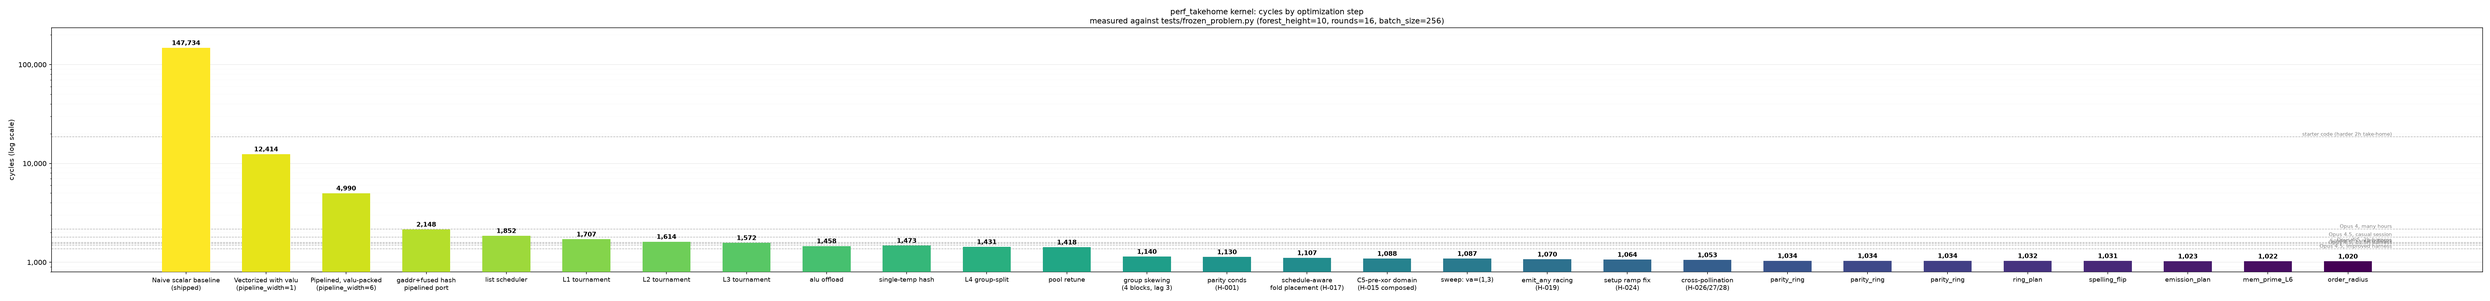
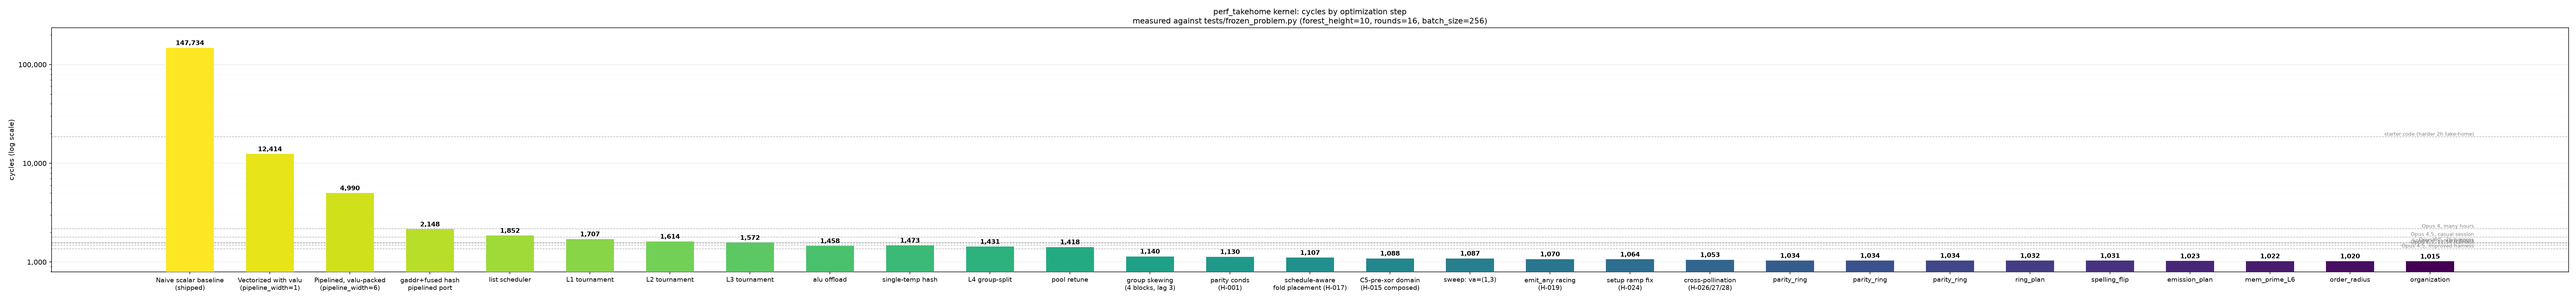
H-056 accepted: mainline 1020 -> 1015 via organization change (even8/stagger2/zip, LB 1013 -> 1001). Convergence call superseded: the organization axis moves the floor
Claude-Session: 5cfbd141-00dc-4755-aaa3-3deea70ab9f0

diff --git a/perf_takehome.py b/perf_takehome.py
@@ -63,70 +63,70 @@ _SCALARIZABLE = {"+", "-", "*", "^", "&", "|", "<<", ">>", "<", "=="}
 # any kernel change. Covers every (round, group) exactly once with
 # per-group rounds ascending (asserted at use).
 _EMISSION_ORDER: tuple[tuple[int, int], ...] = (
-    (0, 2), (0, 1), (0, 0), (0, 5), (0, 4), (1, 1), (0, 7), (1, 2),
-    (0, 6), (1, 4), (0, 3), (1, 0), (1, 6), (1, 5), (1, 3), (1, 7),
-    (2, 1), (2, 2), (2, 0), (3, 0), (2, 5), (2, 6), (3, 2), (2, 7),
-    (3, 1), (3, 6), (2, 4), (4, 0), (2, 3), (3, 5), (3, 4), (0, 8),
-    (3, 7), (0, 12), (3, 3), (0, 14), (4, 6), (4, 2), (0, 11), (4, 5),
-    (0, 9), (0, 15), (4, 3), (4, 1), (0, 13), (5, 0), (4, 4), (4, 7),
-    (1, 8), (1, 13), (5, 4), (5, 2), (1, 12), (1, 15), (0, 10), (1, 9),
-    (5, 5), (1, 10), (5, 6), (1, 11), (2, 8), (2, 12), (6, 4), (5, 3),
-    (6, 5), (5, 7), (0, 22), (5, 1), (6, 2), (2, 10), (6, 0), (1, 14),
-    (2, 9), (3, 9), (6, 1), (0, 23), (2, 14), (3, 10), (2, 13), (2, 15),
-    (0, 20), (6, 6), (3, 8), (6, 7), (3, 12), (3, 14), (0, 18), (0, 19),
-    (7, 4), (2, 11), (3, 15), (7, 0), (7, 2), (7, 1), (6, 3), (0, 16),
-    (7, 3), (7, 6), (3, 11), (4, 9), (7, 7), (4, 10), (4, 12), (4, 11),
-    (7, 5), (1, 20), (0, 21), (8, 0), (4, 15), (8, 4), (1, 23), (1, 16),
-    (4, 14), (1, 21), (5, 12), (8, 2), (4, 8), (3, 13), (8, 5), (1, 22),
-    (0, 17), (1, 19), (8, 3), (1, 18), (4, 13), (8, 1), (5, 10), (1, 17),
-    (8, 6), (9, 0), (5, 9), (8, 7), (5, 15), (5, 14), (5, 13), (5, 8),
-    (9, 5), (2, 23), (0, 25), (0, 24), (2, 22), (9, 6), (2, 20), (2, 16),
-    (2, 18), (9, 1), (9, 2), (5, 11), (2, 19), (6, 14), (6, 9), (6, 10),
-    (6, 15), (9, 7), (9, 4), (3, 20), (6, 13), (9, 3), (6, 11), (2, 21),
-    (3, 18), (3, 16), (6, 12), (6, 8), (3, 19), (3, 22), (1, 25), (0, 27),
-    (3, 21), (2, 17), (3, 23), (10, 6), (0, 26), (3, 17), (7, 9), (7, 12),
-    (0, 28), (10, 5), (0, 29), (4, 17), (7, 8), (10, 1), (0, 31), (10, 3),
-    (10, 2), (10, 0), (4, 18), (10, 4), (4, 16), (0, 30), (7, 15), (7, 14),
-    (4, 22), (11, 2), (7, 10), (4, 19), (7, 11), (4, 20), (1, 26), (11, 3),
-    (1, 30), (10, 7), (8, 10), (4, 21), (1, 24), (1, 27), (8, 8), (7, 13),
-    (1, 28), (1, 29), (8, 12), (8, 14), (8, 9), (11, 6), (2, 27), (5, 18),
-    (1, 31), (5, 16), (4, 23), (2, 26), (11, 4), (5, 21), (11, 1), (8, 15),
-    (11, 0), (2, 31), (8, 13), (5, 19), (11, 7), (5, 20), (2, 24), (9, 10),
-    (5, 17), (2, 25), (11, 5), (12, 0), (2, 30), (2, 29), (6, 17), (5, 22),
-    (12, 5), (12, 4), (9, 9), (5, 23), (9, 8), (3, 25), (8, 11), (10, 10),
-    (12, 1), (9, 13), (3, 27), (6, 20), (2, 28), (9, 14), (9, 11), (6, 16),
-    (12, 6), (12, 3), (9, 15), (12, 7), (3, 24), (3, 26), (6, 21), (6, 18),
-    (3, 28), (6, 19), (6, 23), (7, 21), (6, 22), (7, 18), (13, 3), (13, 0),
-    (10, 15), (3, 29), (12, 2), (13, 1), (13, 2), (13, 7), (10, 9), (13, 4),
-    (9, 12), (10, 12), (3, 30), (10, 11), (13, 6), (7, 19), (7, 17), (7, 20),
-    (4, 26), (7, 23), (10, 14), (14, 1), (13, 5), (4, 28), (4, 27), (4, 30),
-    (8, 19), (7, 16), (7, 22), (3, 31), (10, 13), (14, 3), (10, 8), (4, 31),
-    (4, 24), (4, 25), (5, 26), (8, 21), (4, 29), (11, 14), (14, 5), (14, 4),
-    (11, 8), (14, 7), (14, 0), (11, 11), (11, 10), (11, 12), (14, 2), (14, 6),
-    (8, 22), (11, 13), (8, 23), (5, 24), (15, 3), (8, 16), (15, 0), (5, 25),
-    (11, 15), (15, 5), (11, 9), (5, 27), (8, 20), (5, 28), (12, 10), (8, 18),
-    (5, 30), (8, 17), (12, 15), (15, 4), (5, 31), (15, 2), (15, 7), (15, 6),
-    (12, 9), (9, 18), (12, 8), (9, 19), (15, 1), (12, 11), (5, 29), (12, 14),
-    (13, 10), (9, 16), (12, 13), (6, 24), (6, 27), (9, 17), (12, 12), (9, 22),
-    (9, 21), (6, 30), (9, 23), (6, 25), (9, 20), (6, 26), (6, 28), (6, 29),
-    (13, 8), (10, 19), (6, 31), (13, 11), (10, 22), (11, 22), (13, 12), (13, 9),
-    (13, 14), (13, 13), (7, 30), (10, 18), (10, 17), (13, 15), (10, 23), (10, 21),
-    (10, 16), (7, 28), (7, 29), (7, 24), (10, 20), (7, 26), (14, 12), (7, 25),
-    (14, 13), (7, 27), (14, 9), (11, 20), (14, 11), (14, 14), (14, 15), (14, 10),
-    (8, 28), (15, 12), (7, 31), (11, 17), (8, 31), (14, 8), (11, 16), (8, 29),
-    (11, 18), (11, 19), (8, 24), (11, 23), (8, 25), (8, 26), (12, 17), (11, 21),
-    (15, 8), (15, 14), (15, 11), (15, 15), (15, 10), (12, 22), (12, 16), (12, 23),
-    (12, 19), (8, 27), (15, 9), (8, 30), (12, 20), (15, 13), (12, 18), (12, 21),
-    (9, 24), (9, 25), (9, 30), (9, 26), (9, 27), (9, 29), (9, 28), (13, 19),
-    (13, 21), (13, 18), (13, 23), (13, 16), (13, 20), (9, 31), (13, 17), (13, 22),
-    (10, 24), (10, 25), (10, 26), (10, 30), (10, 27), (10, 29), (14, 18), (14, 17),
-    (14, 16), (10, 28), (14, 19), (10, 31), (14, 20), (14, 22), (14, 23), (14, 21),
-    (11, 24), (11, 25), (11, 26), (11, 27), (15, 19), (11, 28), (12, 24), (11, 31),
-    (12, 27), (15, 18), (11, 29), (15, 22), (12, 28), (15, 23), (11, 30), (15, 21),
-    (12, 25), (15, 20), (13, 24), (12, 26), (13, 26), (13, 25), (15, 17), (12, 30),
-    (12, 29), (12, 31), (13, 28), (13, 30), (13, 27), (14, 25), (13, 29), (14, 26),
-    (13, 31), (14, 24), (14, 28), (14, 27), (14, 29), (15, 26), (15, 28), (14, 31),
-    (15, 16), (14, 30), (15, 27), (15, 31), (15, 29), (15, 30), (15, 24), (15, 25),
+    (0, 0), (0, 3), (0, 1), (0, 4), (0, 2), (1, 4), (1, 1), (1, 2),
+    (1, 0), (2, 0), (1, 3), (2, 2), (0, 5), (3, 0), (0, 7), (1, 5),
+    (1, 7), (2, 1), (0, 6), (2, 3), (1, 6), (3, 1), (3, 3), (0, 10),
+    (2, 4), (0, 8), (3, 2), (4, 0), (4, 1), (5, 1), (3, 4), (4, 2),
+    (4, 3), (2, 6), (2, 5), (5, 2), (0, 12), (5, 3), (3, 5), (0, 11),
+    (0, 9), (2, 7), (0, 14), (1, 9), (1, 8), (1, 11), (5, 0), (1, 10),
+    (6, 0), (0, 15), (3, 6), (4, 4), (2, 11), (2, 9), (3, 7), (6, 3),
+    (4, 6), (4, 5), (0, 13), (2, 10), (5, 6), (3, 9), (7, 0), (2, 8),
+    (3, 8), (6, 1), (4, 7), (5, 4), (1, 12), (1, 13), (7, 1), (5, 5),
+    (3, 10), (2, 13), (5, 7), (6, 2), (1, 15), (7, 2), (0, 17), (8, 1),
+    (0, 22), (0, 16), (0, 19), (6, 7), (3, 11), (4, 9), (8, 2), (7, 3),
+    (2, 12), (2, 15), (8, 0), (9, 0), (1, 14), (5, 9), (0, 18), (3, 12),
+    (4, 10), (6, 4), (6, 5), (2, 14), (9, 2), (5, 10), (9, 1), (4, 11),
+    (1, 16), (4, 8), (6, 10), (0, 21), (3, 14), (3, 13), (5, 11), (10, 0),
+    (10, 2), (5, 8), (7, 7), (6, 6), (6, 9), (1, 21), (1, 19), (6, 8),
+    (0, 20), (7, 4), (4, 13), (1, 17), (4, 12), (8, 3), (8, 4), (9, 3),
+    (0, 23), (7, 5), (1, 18), (2, 16), (10, 1), (7, 6), (8, 7), (2, 19),
+    (2, 18), (3, 15), (4, 14), (0, 28), (8, 6), (10, 3), (8, 5), (7, 9),
+    (9, 4), (3, 16), (0, 24), (11, 2), (4, 15), (1, 22), (7, 8), (1, 20),
+    (11, 1), (3, 19), (4, 16), (9, 5), (1, 23), (5, 14), (2, 20), (2, 17),
+    (11, 0), (11, 3), (5, 13), (10, 5), (5, 12), (7, 10), (8, 9), (6, 13),
+    (3, 18), (6, 11), (2, 23), (9, 7), (5, 15), (4, 19), (0, 25), (6, 15),
+    (9, 6), (7, 11), (6, 12), (12, 1), (8, 11), (2, 22), (12, 0), (1, 25),
+    (2, 21), (10, 4), (13, 0), (3, 20), (10, 7), (8, 8), (0, 26), (8, 10),
+    (5, 16), (7, 12), (1, 26), (4, 18), (9, 9), (11, 7), (5, 18), (3, 17),
+    (6, 16), (12, 2), (7, 13), (12, 3), (10, 6), (6, 14), (13, 1), (4, 17),
+    (9, 8), (9, 10), (0, 27), (10, 10), (1, 28), (3, 23), (5, 19), (3, 21),
+    (13, 3), (9, 11), (14, 0), (13, 2), (1, 27), (2, 26), (4, 21), (14, 3),
+    (8, 12), (1, 24), (11, 4), (5, 17), (4, 20), (0, 29), (12, 4), (7, 15),
+    (3, 22), (0, 31), (11, 5), (10, 8), (7, 14), (11, 6), (5, 20), (4, 23),
+    (2, 27), (2, 24), (15, 0), (6, 17), (14, 1), (8, 13), (12, 5), (10, 9),
+    (6, 19), (4, 22), (12, 7), (2, 28), (5, 21), (9, 12), (7, 16), (13, 5),
+    (10, 11), (3, 24), (6, 20), (13, 7), (12, 6), (7, 17), (8, 15), (6, 18),
+    (11, 10), (2, 25), (14, 2), (13, 4), (3, 28), (0, 30), (11, 9), (9, 13),
+    (6, 21), (11, 8), (3, 27), (7, 19), (15, 2), (1, 29), (14, 4), (15, 3),
+    (4, 24), (7, 18), (5, 23), (13, 6), (8, 14), (1, 30), (12, 8), (3, 25),
+    (5, 22), (10, 12), (2, 30), (9, 15), (8, 19), (15, 1), (11, 11), (15, 4),
+    (4, 25), (6, 22), (3, 26), (8, 18), (9, 19), (14, 6), (11, 12), (10, 13),
+    (11, 13), (5, 25), (4, 26), (6, 23), (10, 15), (12, 10), (3, 30), (14, 5),
+    (9, 14), (1, 31), (8, 17), (12, 9), (9, 17), (4, 27), (2, 29), (13, 8),
+    (12, 13), (8, 16), (13, 9), (10, 17), (9, 16), (3, 29), (10, 14), (9, 18),
+    (14, 9), (10, 16), (13, 13), (5, 24), (2, 31), (10, 19), (11, 16), (7, 23),
+    (6, 25), (5, 26), (12, 11), (6, 26), (7, 25), (13, 10), (14, 7), (13, 11),
+    (4, 29), (3, 31), (7, 20), (5, 27), (15, 5), (4, 28), (8, 23), (6, 24),
+    (6, 27), (7, 22), (15, 7), (10, 18), (14, 10), (8, 20), (12, 12), (11, 19),
+    (4, 30), (9, 20), (8, 22), (7, 24), (14, 11), (11, 15), (7, 21), (15, 11),
+    (14, 8), (8, 24), (9, 22), (15, 9), (15, 10), (11, 14), (13, 12), (15, 6),
+    (5, 28), (6, 28), (5, 29), (15, 8), (4, 31), (5, 30), (7, 26), (10, 20),
+    (12, 14), (5, 31), (12, 15), (13, 14), (13, 15), (11, 17), (8, 21), (14, 12),
+    (11, 18), (9, 23), (12, 16), (6, 29), (9, 21), (10, 21), (7, 27), (6, 31),
+    (8, 25), (6, 30), (8, 26), (12, 17), (14, 13), (12, 19), (8, 27), (12, 18),
+    (14, 15), (14, 14), (10, 23), (10, 22), (7, 28), (15, 13), (11, 20), (9, 24),
+    (9, 26), (15, 12), (13, 16), (11, 21), (9, 25), (13, 17), (7, 29), (7, 30),
+    (11, 23), (15, 14), (11, 22), (7, 31), (13, 18), (9, 27), (13, 19), (15, 15),
+    (12, 20), (8, 28), (14, 16), (10, 25), (12, 21), (8, 29), (10, 24), (12, 22),
+    (14, 17), (8, 30), (10, 26), (14, 18), (8, 31), (10, 27), (12, 23), (9, 28),
+    (14, 19), (11, 24), (13, 20), (9, 29), (15, 16), (11, 25), (15, 17), (13, 21),
+    (13, 23), (9, 30), (11, 26), (13, 22), (11, 27), (10, 28), (9, 31), (15, 19),
+    (12, 24), (14, 20), (14, 21), (10, 29), (15, 18), (12, 25), (10, 30), (14, 22),
+    (12, 26), (10, 31), (14, 23), (12, 27), (13, 24), (11, 29), (11, 28), (11, 30),
+    (13, 25), (15, 21), (15, 22), (11, 31), (13, 26), (13, 27), (15, 23), (12, 28),
+    (14, 24), (12, 29), (14, 25), (12, 30), (12, 31), (14, 27), (13, 28), (15, 20),
+    (13, 29), (13, 31), (13, 30), (14, 26), (14, 28), (14, 30), (15, 28), (14, 29),
+    (15, 25), (14, 31), (15, 30), (15, 24), (15, 27), (15, 29), (15, 31), (15, 26),
 )
 
 

diff --git a/research/RESEARCH.md b/research/RESEARCH.md
@@ -7,7 +7,7 @@
 
 | cycles | commit | config |
 |---|---|---|
-| 1020 | F-13 port (driver) | F-13 order plan (radius +/-16/32) on the H-047 mem_prime(5,6)+gmin(7,30) mix |
+| 1015 | H-056 port (driver) | even8/stagger2/ZIP organization (LB 1013 -> 1001) + walked order, on the H-047 mix |
 
 ## Floors (recalibrated 2026-07-27 at 1038, see tools/diagnose_kernel.py + tools/export_dashboard.py)
 
@@ -86,6 +86,7 @@ Global: 6 dry iterations -> one cross-pollination iteration. Status report to us
 - iter 13 | H-040 CLOSED ANSWERED: 892 = no-indices board + different organization; same-rules frontier 940; the 1,015 floor is a fixed-gather-count artifact. Loop redirected: H-041 select-tree gather conversion + per-cycle engine-mix balance (corsix: >280 gathers convertible, valu:load:flow 7.5:2:1), H-042 beam-search bundle packing (wallace: beats greedy). H-038/H-039 still running | best 1038
 - iter 13 | H-041 REJECTED -> G-23 (we ALREADY run the frontier's 7.5:2:1 balance — steady window co-saturated, valu binder floor 1020, friction only 18; L4 at equilibrium on count AND composition axes; L5 dead 3 ways; conversion activates only below ~950 after ~400 valu/~600 alu removal). MODE CHANGE (user directive): ALGO-FIRST under idealized machine (infinite scratch + perfect allocation) — fitting/allocation PARKED (H-042 parked); new algo strain: H-043 (frontier writeup mechanism extraction), H-044 (ideal-machine cost model + serving-strategy solve) | best 1038
 - iter 14 | H-045 PARTIAL ACCEPT: parity_ring cond retention (dead-window cross-block register borrowing, 480w at zero net alloc) + gmin slide -> strain frontier 1034 (-4), first win since restart; superadditive slices confirm the coupled prize; blockers: 384 more ring words for full retention (mid-schedule fully live), flow leg needs joint scheduling (H-042 re-scope) not spelling. F-1 mainline port spawned | best 1038 (frontier 1034)
+- iter 20 | H-056 ACCEPTED -> 1015 (-5), MAINLINE FLIPPED. **THE CONVERGENCE CALL WAS WRONG and the reopen was right: the mainline organization was one of the WORST points in the space by lower bound** (even4/stag3/block LB 1013 vs even8/stag2/zip LB 1001 vs even16/stag1/zip LB 996). 28,316 candidates screened across 3 ring regimes (ranking identical -> not a ring artifact). Three monotone findings: ZIP (group-granular wave interleave) beats BLOCK at every partition/stagger by 2-9 LB cyc; finer partitions on tighter staggers lower LB; the mechanism is the VALU CENSUS (6076->5971) because emission order decides alu-vs-valu race outcomes. **F-13's "orders are mix-specific" has an exact converse: MIXES ARE ORDER-SPECIFIC, and the organization is the coarse handle.** Order descent was ~30x faster on the low-LB stream (2.5k evals for 1028->1020 vs F-13's 213k for 1034->1020) — a lower-LB stream is a better-conditioned landscape. Zero code changes (organization is expressible through emission_plan alone). LB 992 and 996 streams EXIST and are barely walked. G-28's "everything left is <=20 and order/packing-shaped" is SUPERSEDED — the organization axis moves the FLOOR | best 1015
 - iter 19 | F-18 NEGATIVE -> G-29, order axis CLOSED BY ENUMERATION: exhaustive 1-move scan (26,415 moves, radius unbounded by construction) finds ZERO below 1020; repeat at a far plateau point also zero. The 1020 plan is a STRICT 1-move local optimum. Radius saturates (>128 displacement: 0/38 neutral-or-better). Plateau is 55% neutral — order walks always LOOK alive. **CONVERGENCE: every axis at this program organization is now closed with evidence** (hash G-10/G-20/G-24, idx G-21, loads G-16/G-18/G-22/G-28, packing G-25, spelling+flow G-27, op-migration G-26, chain G-28 (cap 3), order G-29, serve-more H-047). Envelope 1020 -> 1006. Next: H-056 re-opens the ORGANIZATION itself (skew/block/epoch/grouping) with per-candidate order re-search — every prior organization experiment predates the current order regime, exactly the pattern that made H-047 pay
 - iter 19 | H-055 CLOSED NEGATIVE -> G-28, WITH A CORRECTION: G-27's "-181 superadditivity" was a MISREADING of max-of-floors (valu relief re-binds on the load floor and vice versa; the floors sit 63 apart). **Chain shortening of ANY kind is capped at 3 cycles** (all-lags-zero = 1017 at the 1020 mainline). Pair-preload closed harder than G-18: it needs NO memory re-layout (base is already parity-free and hoisted; children are contiguous) and is POSITIVE at all 13 subset sizes even with loads made FREE. Drain is NOT chain-bound (valu saturation); ramp is LOAD BANDWIDTH not chain. ENVELOPE: 1020 -> 1006 (slot floor) / 1000 (fungible); everything left is <=20 cyc and order/packing-shaped -- order walks are the only remaining machine at this organization | best 1020
 - iter 18 | F-13 ACCEPTED -> 1020 (-2), MAINLINE FLIPPED (driver-ported literal swap; 9/9 green twice). KEY: the axis was JUMP RADIUS, not restart seed — H-049's +/-8 move set was a local optimum (0 wins over 62k evals re-running it); +/-16/+/-32 descended. 213k sim-verified evals. Orders are MIX-SPECIFIC (measured: F-13 order on H-049 mix = 1027, H-047 order on H-049 mix = 1027) — the plan toolchain must be re-run per candidate mix. New regret at 1020: LB 1006, CP 541, regret 14 = ramp 4 + mid/seam 6 + drain 4; the gain came entirely from the mid/seam band. Ramp and drain UNMOVED under 213k evals — chain-bound, H-055's territory. F-18 queued: radius escalation (+/-64/128, compound moves) untested
